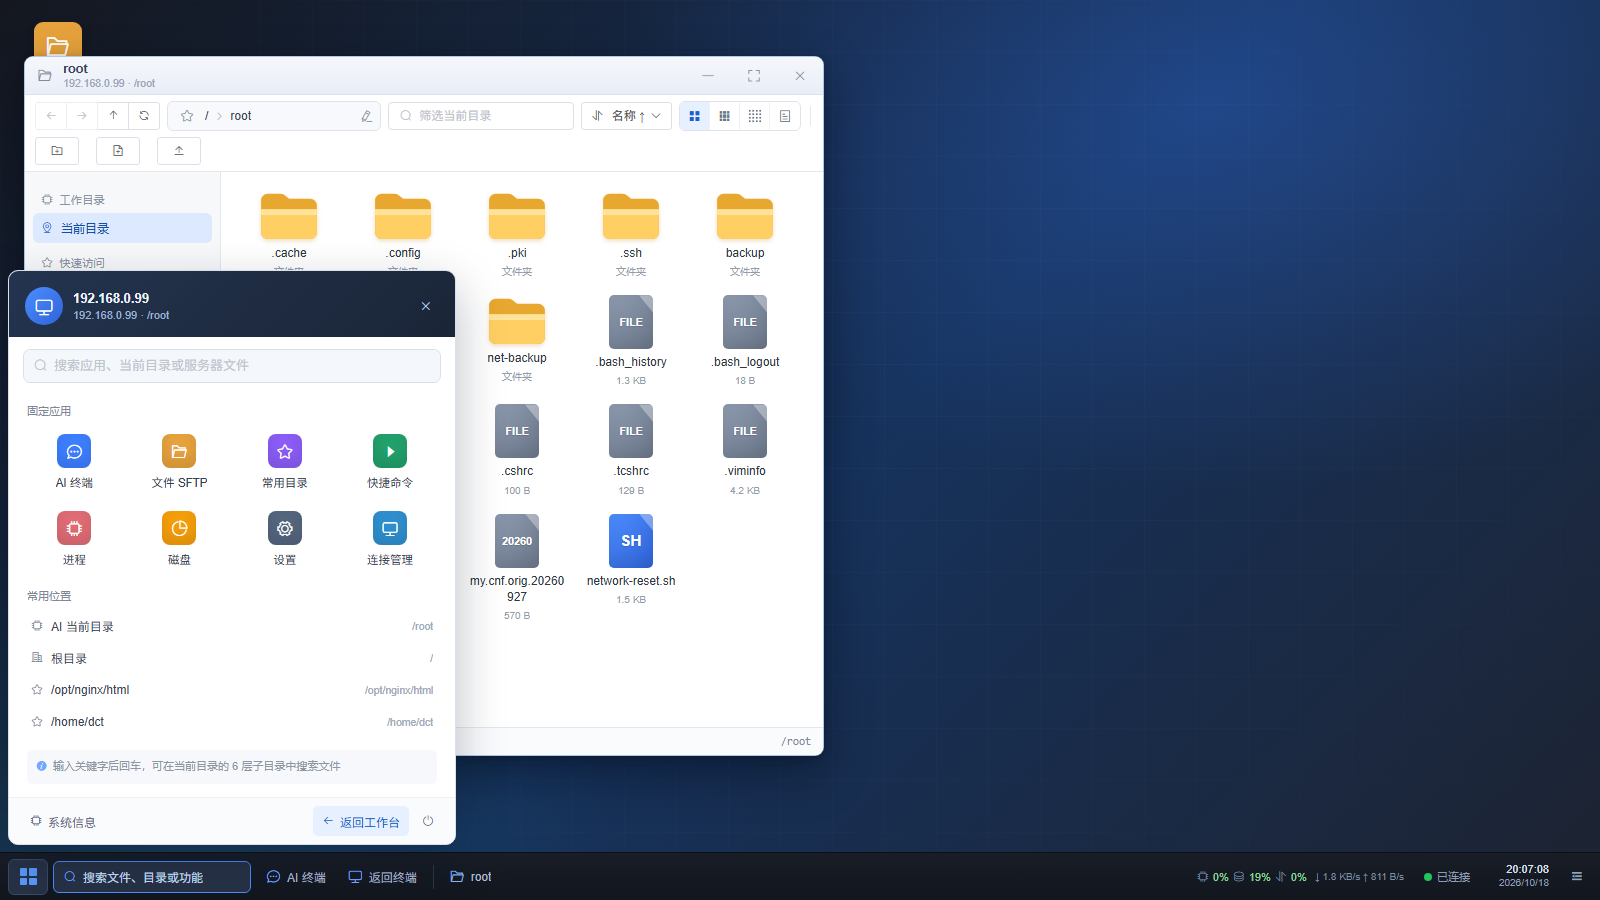
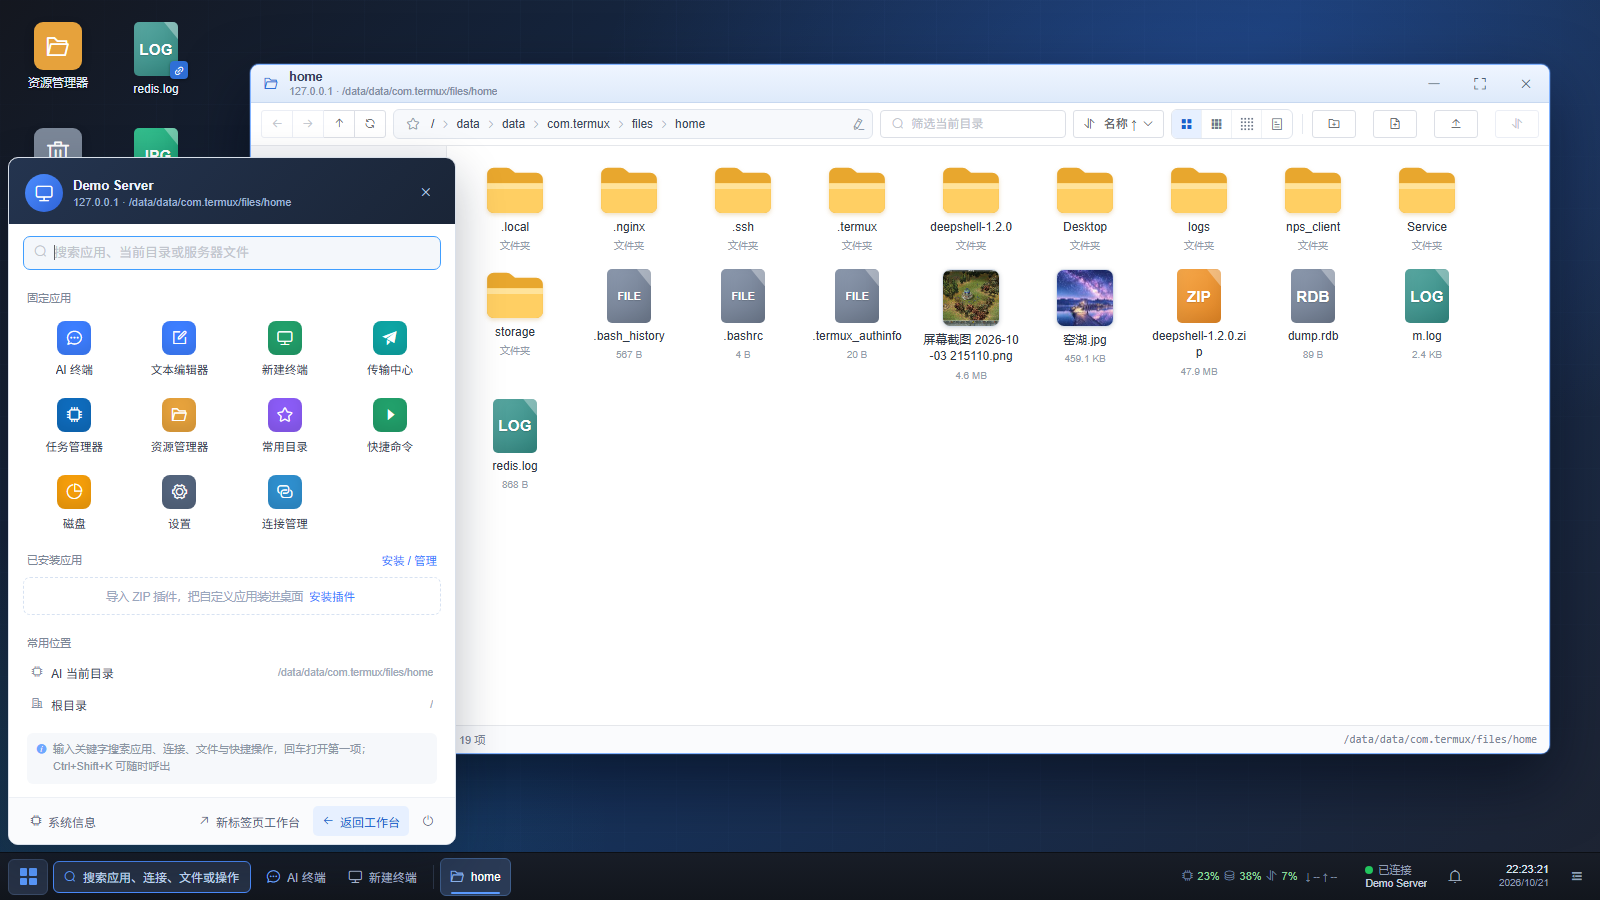
docs: 更新界面预览截图并补充任务管理器与文本编辑器
- 桌面、开始菜单、AI 终端同屏、工作台四张截图按 v1.2.0 实际界面重新截取
- 新增任务管理器（进程/性能等七个页面）与多标签文本编辑器截图
- README 界面预览补充对应说明

diff --git a/README.md b/README.md
@@ -8,13 +8,19 @@
 
 ### AI 可视化桌面
 
-![AI 可视化桌面：资源管理器与 AI 终端同屏](docs/screenshots/ai-desktop-ai-window.png)
+![AI 可视化桌面：AI 终端与资源管理器同屏](docs/screenshots/ai-desktop-ai-window.png)
 
-*桌面内同时打开资源管理器与 AI 终端：文件浏览、AI 自动执行命令、结果卡片都在同一个桌面里完成。*
+*桌面内同时打开 AI 终端与资源管理器：左边用自然语言让 AI 直接在服务器上执行命令并给出结论，右边继续浏览同一台服务器的文件，窗口可以随意拖动、缩放和贴边。*
 
 | 桌面与资源管理器 | 开始菜单 |
 |---|---|
 | ![桌面与资源管理器](docs/screenshots/ai-desktop.png) | ![开始菜单](docs/screenshots/ai-desktop-start.png) |
+
+| 任务管理器 | 文本编辑器 |
+|---|---|
+| ![任务管理器](docs/screenshots/ai-desktop-taskmgr.png) | ![文本编辑器](docs/screenshots/ai-desktop-editor.png) |
+
+*桌面内置 Windows 风格任务管理器（进程 / 性能 / 应用历史 / 启动应用 / 用户 / 详细信息 / 服务七个页面）和多标签文本编辑器（顶部菜单栏、语法高亮、远程文件打开与另存为）。*
 
 ### 工作台
 
